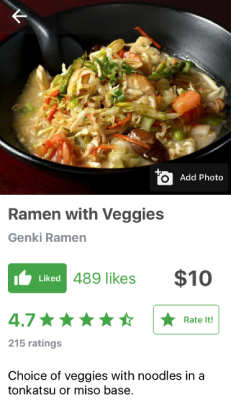
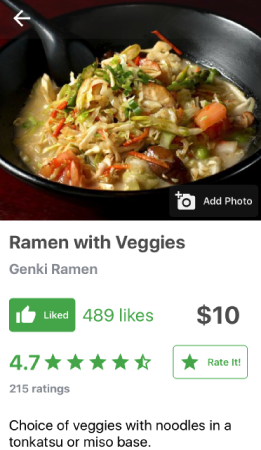
Updated value section screenshots

diff --git a/src/components/Main/ExploreSection.js b/src/components/Main/ExploreSection.js
@@ -13,7 +13,7 @@ const ExploreSection = () => (
             <div className="phone-frame-section phone-frame-shadow">
               <figure className="image">
                 <img
-                  src="img/screenshots/explore-dish-map-pizza.png"
+                  src="img/screenshots/explore-dish-map-pizza-small.png"
                   alt="WeEat - explore map phone screen"
                   className="phone-screen-section"
                 />

diff --git a/src/components/Main/SocialSection.js b/src/components/Main/SocialSection.js
@@ -22,7 +22,7 @@ const SocialSection = () => (
             <div className="phone-frame-section phone-frame-shadow">
               <figure className="image">
                 <img
-                  src="img/screenshots/activity-screen.png"
+                  src="img/screenshots/activity-screen-small.png"
                   alt="WeEat - friends activity phone screen"
                   className="phone-screen-section"
                 />

diff --git a/src/components/Main/VisualSection.js b/src/components/Main/VisualSection.js
@@ -12,7 +12,7 @@ const VisualSection = () => (
             <div className="phone-frame-section phone-frame-shadow">
               <figure className="image">
                 <img
-                  src="img/screenshots/dish-screen.png"
+                  src="img/screenshots/dish-screen-small.png"
                   alt="WeEat - meal phone screen"
                   className="phone-screen-section"
                 />
